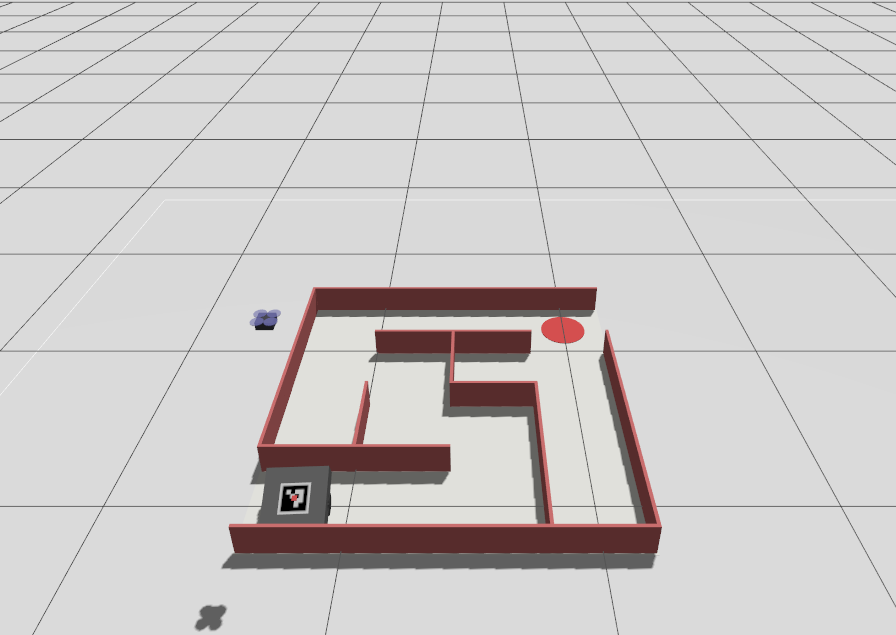
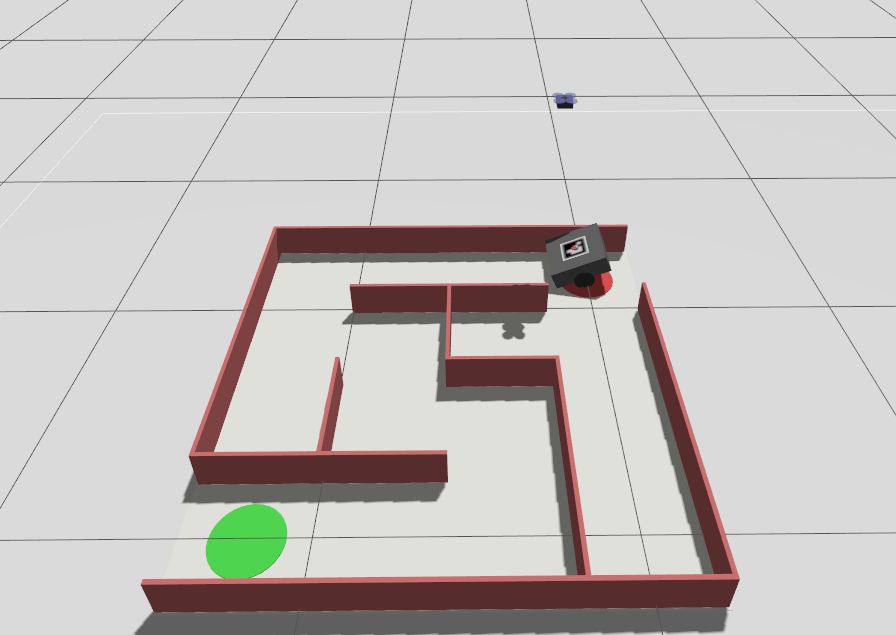
Correction de la navigation et ajout de la synchro drone

diff --git a/maze_robot_sim/maze_navigator_node.py b/maze_robot_sim/maze_navigator_node.py
@@ -52,6 +52,7 @@ def wrap_angle(a):
 
 class MazeNavigatorNode(Node):
     # États internes de la machine à états
+    STATE_WAIT_DRONE       = "wait_drone"
     STATE_WAIT_ODOM        = "wait_odom"
     STATE_CALIBRATE_SPIN_UP = "calibrate_spin_up"
     STATE_CALIBRATE_MEASURE = "calibrate_measure"
@@ -100,21 +101,25 @@ class MazeNavigatorNode(Node):
         invert_param = self.get_parameter("invert_angular").get_parameter_value().string_value.strip().lower()
         if invert_param in ("true", "1", "yes"):
             self.angular_sign      = -1.0
-            self.state             = self.STATE_WAIT_ODOM
+            self.state             = self.STATE_WAIT_DRONE
             self._skip_calibration = True
             self.get_logger().info("invert_angular forcé à TRUE (angular_sign=-1) — calibration auto désactivée.")
         elif invert_param in ("false", "0", "no"):
             self.angular_sign      = 1.0
-            self.state             = self.STATE_WAIT_ODOM
+            self.state             = self.STATE_WAIT_DRONE
             self._skip_calibration = True
             self.get_logger().info("invert_angular forcé à FALSE (angular_sign=+1) — calibration auto désactivée.")
         else:
             self.angular_sign      = 1.0
-            self.state             = self.STATE_WAIT_ODOM
+            self.state             = self.STATE_WAIT_DRONE
             self._skip_calibration = False
 
         self._calib_start_yaw  = None
         self._calib_start_time = None
+
+        # Drone sync
+        self.drone_ready = False
+        self.create_subscription(String, "/drone/mapper/ready", self.drone_ready_cb, 10)
 
         cmd_topic  = self.get_parameter("cmd_vel_topic").get_parameter_value().string_value
         odom_topic = self.get_parameter("odom_topic").get_parameter_value().string_value
@@ -155,6 +160,11 @@ class MazeNavigatorNode(Node):
                 "'Publisher count: 1'. Le robot ne bougera pas tant que "
                 "l'odométrie n'arrive pas.")
 
+    def drone_ready_cb(self, msg: String):
+        if msg.data == "READY" and not self.drone_ready:
+            self.drone_ready = True
+            self.get_logger().info("Drone prêt reçu, on peut démarrer.")
+
     def odom_cb(self, msg: Odometry):
         start_x, start_y = self.waypoints[0]
         self.pose_x = start_x + msg.pose.pose.position.x
@@ -182,6 +192,12 @@ class MazeNavigatorNode(Node):
 
     def control_loop(self):
         now = self.get_clock().now()
+
+        if self.state == self.STATE_WAIT_DRONE:
+            if not self.drone_ready:
+                return
+            self.state = self.STATE_WAIT_ODOM
+            return
 
         if self.state == self.STATE_WAIT_ODOM:
             if not self.have_odom:

diff --git a/maze_robot_sim/drone_mapper_node.py b/maze_robot_sim/drone_mapper_node.py
@@ -107,6 +107,8 @@ class DroneMapperNode(Node):
         self.cmd_pub    = self.create_publisher(Twist,  cmd_topic,               10)
         self.enable_pub = self.create_publisher(Bool,   enable_topic,            10)
         self.status_pub = self.create_publisher(String, p("status_topic").value, 10)
+        # Signal « feu vert » envoyé au robot quand le drone est stable en l'air
+        self.ready_pub  = self.create_publisher(String, "/drone/mapper/ready",   10)
 
         # ── Subscribers ──
         img_qos = QoSProfile(
@@ -294,6 +296,9 @@ class DroneMapperNode(Node):
                 self.get_logger().info(
                     f"[Drone] Cartographie terminée ({self.hover_sec:.1f}s). "
                     f"Passage en TRACKING à {self.tracking_alt:.2f} m.")
+                # ── Feu vert au robot : il peut commencer à naviguer ──
+                self.ready_pub.publish(String(data="READY"))
+                self.get_logger().info("[Drone] Signal READY envoyé au robot.")
                 self._enter_state(STATE_TRACKING)
             return
 
@@ -319,13 +324,31 @@ class DroneMapperNode(Node):
                 self._enter_state(STATE_DONE)
                 return
 
-            next_alt = max(self.landing_alt, self._real_alt - self.landing_spd)
+            # Centrage XY sur ArUco, mais on force vz négatif directement
+            # (on n'utilise plus _do_tracking pour l'altitude car la deadband
+            # de 0.1 m absorberait le tiny step de 0.05 m et vz resterait 0)
             self._pub_status("LANDING")
-            self._do_tracking(target_alt=next_alt)
+            if self._last_frame is not None:
+                ex, ey = self._detect_aruco_error(self._last_frame)
+                if ex is not None:
+                    vx = float(np.clip(self.kp_xy * ey, -self.max_xy, self.max_xy))
+                    vy = float(np.clip(self.kp_xy * ex, -self.max_xy, self.max_xy))
+                else:
+                    vx, vy = 0.0, 0.0
+            else:
+                vx, vy = 0.0, 0.0
+            # Descente à vitesse constante, sans deadband
+            vz = -self.landing_spd
+            self._pub_cmd(vx, vy, vz)
             return
 
-        # ── DONE ──
+        # ── DONE : couper les moteurs une bonne fois pour toutes ──
         if self.state == STATE_DONE:
+            # Désactiver le contrôleur Gazebo pour que le drone tombe sur le robot
+            disable_msg = Bool()
+            disable_msg.data = False
+            self.enable_pub.publish(disable_msg)
+            # On publie une cmd nulle par sécurité
             self._pub_cmd(0.0, 0.0, 0.0)
             self._pub_status("DONE")
 

diff --git a/launch/maze_sim.launch.py b/launch/maze_sim.launch.py
@@ -85,7 +85,7 @@ def generate_launch_description():
         "drone_y",
         default_value=PythonExpression(['str((int(', rows, ') - 1) * float(', cell_size, '))'])
     )
-    declare_drone_z = DeclareLaunchArgument("drone_z", default_value="1.0")
+    declare_drone_z = DeclareLaunchArgument("drone_z", default_value="0.1")
 
     # ── Chemins ──
     generated_world_path    = os.path.join(pkg_share, "worlds", "generated_maze.sdf")
@@ -267,12 +267,19 @@ def generate_launch_description():
         executable="maze_navigator_node",
         output="screen",
         parameters=[{
-            "maze_json":     generated_meta_path,
-            "odom_topic":    "/diff_drive_controller/odom",
-            "cmd_vel_topic": "/diff_drive_controller/cmd_vel",
-            "imu_topic":     "/imu",
-            "invert_angular": invert_angular,
-            "use_sim_time":  True,
+            "maze_json":               generated_meta_path,
+            "odom_topic":              "/diff_drive_controller/odom",
+            "cmd_vel_topic":           "/diff_drive_controller/cmd_vel",
+            "imu_topic":               "/imu",
+            "invert_angular":          invert_angular,
+            "use_sim_time":            True,
+            # ── Gains de navigation ajustés pour un parcours smooth ──
+            "linear_kp":              0.5,    # était 0.9 — décélère plus tôt
+            "angular_kp":             1.2,    # était 1.8 — virages plus doux
+            "max_linear_speed":       0.18,   # était 0.3 — vitesse max réduite
+            "max_angular_speed":      1.4,    # était 2.0 — rotation plus lente
+            "goal_tolerance":         0.10,   # 10cm : agit comme un "lookahead" pur pursuit pour enchaîner les cellules de façon fluide
+            "align_tolerance_rad":    0.20,   # était 0.35 — commence à avancer plus tôt/précisément
         }],
     )
 
